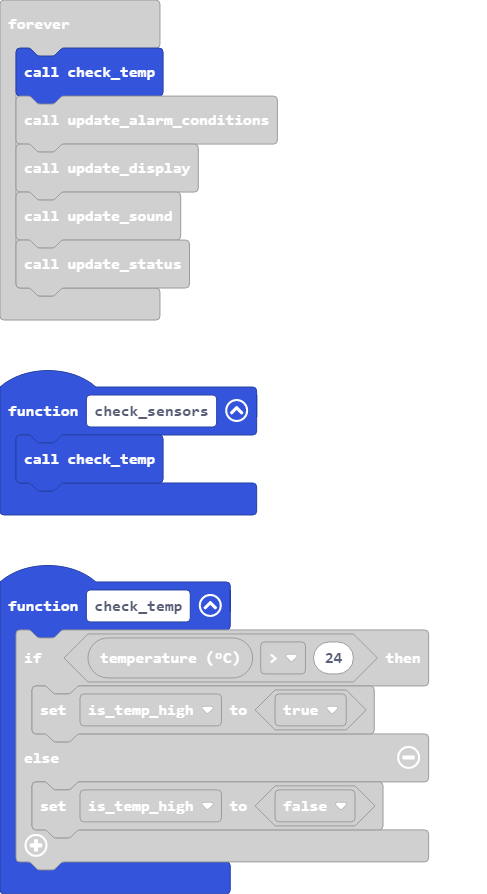
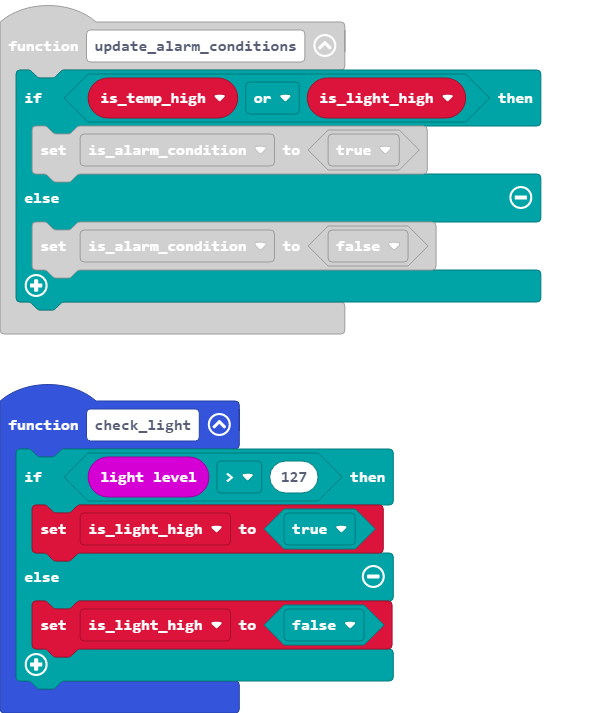
Update main.blocks, main.ts

diff --git a/main.ts b/main.ts
@@ -3,6 +3,7 @@ let is_temp_high = false
 let loop_counter = 0
 let is_sound_enabled = false
 let is_alarm_condition = false
+let is_light_high = false
 input.onButtonPressed(Button.A, function () {
     basic.clearScreen()
     basic.showNumber(input.temperature())
@@ -71,10 +72,17 @@ function update_display () {
     }
 }
 function update_alarm_conditions () {
-    if (is_temp_high) {
+    if (is_temp_high || is_light_high) {
         is_alarm_condition = true
     } else {
         is_alarm_condition = false
+    }
+}
+function check_light () {
+    if (input.lightLevel() > 127) {
+        is_light_high = true
+    } else {
+        is_light_high = false
     }
 }
 basic.forever(function () {
